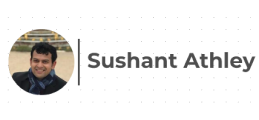
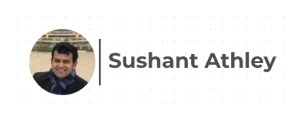
sponsor beautified

Changed region(s): [[0.0309, 0.225, 0.9884, 0.8]]

diff --git a/index.html b/index.html
@@ -1112,22 +1112,22 @@
                             class="col-md-12 d-flex flex-row flex-wrap justify-content-center align-items-center mb-3 ">
                             <a href="https://kaagaz.app/" target="_blank"
                                 class="col-md-6 d-flex justify-content-center align-items-center sponsor-card ">
-                                <img class="subImg" src="./assets/sponsors/kaagaz.png " style="width:60%;" alt="kaagaz">
+                                <img class="subImg" src="./assets/sponsors/kaagaz.png " style="width:70%;" alt="kaagaz">
                             </a>
                             <a href="https://www.linkedin.com/in/sathley/" target="_blank"
                                 class="col-md-6 d-flex justify-content-center align-items-center sponsor-card ">
-                                <img class="subImg" src="./assets/sponsors/saSir.png " style="width:60%;" alt="Sushant
+                                <img class="subImg" src="./assets/sponsors/saSir.png " style="width:70%;" alt="Sushant
                                     Athley">
                             </a>
                             <a href="https://www.udchalo.com/" target="_blank"
                                 class="col-md-6 justify-content-around d-flex align-items-center sponsor-card ">
-                                <img class="subImg" src="./assets/sponsors/udchalo.jpg " alt="udchalo"
-                                    style="width:60%;">
+                                <img class="subImg" src="./assets/sponsors/udchalo.png " alt="udchalo"
+                                    style="width:70%;">
                             </a>
                             <a href="https://www.udchalo.com/" target="_blank"
                                 class="col-md-6 justify-content-around d-flex align-items-center sponsor-card ">
                                 <img class="subImg" src="./assets/sponsors/DIL.png " alt="Deep Info Labs"
-                                    style="width:60%;">
+                                    style="width:70%;">
                             </a>
                         </div>
                         <div class="col-md-12 text-center mt-2 " style="height: 20px; ">
